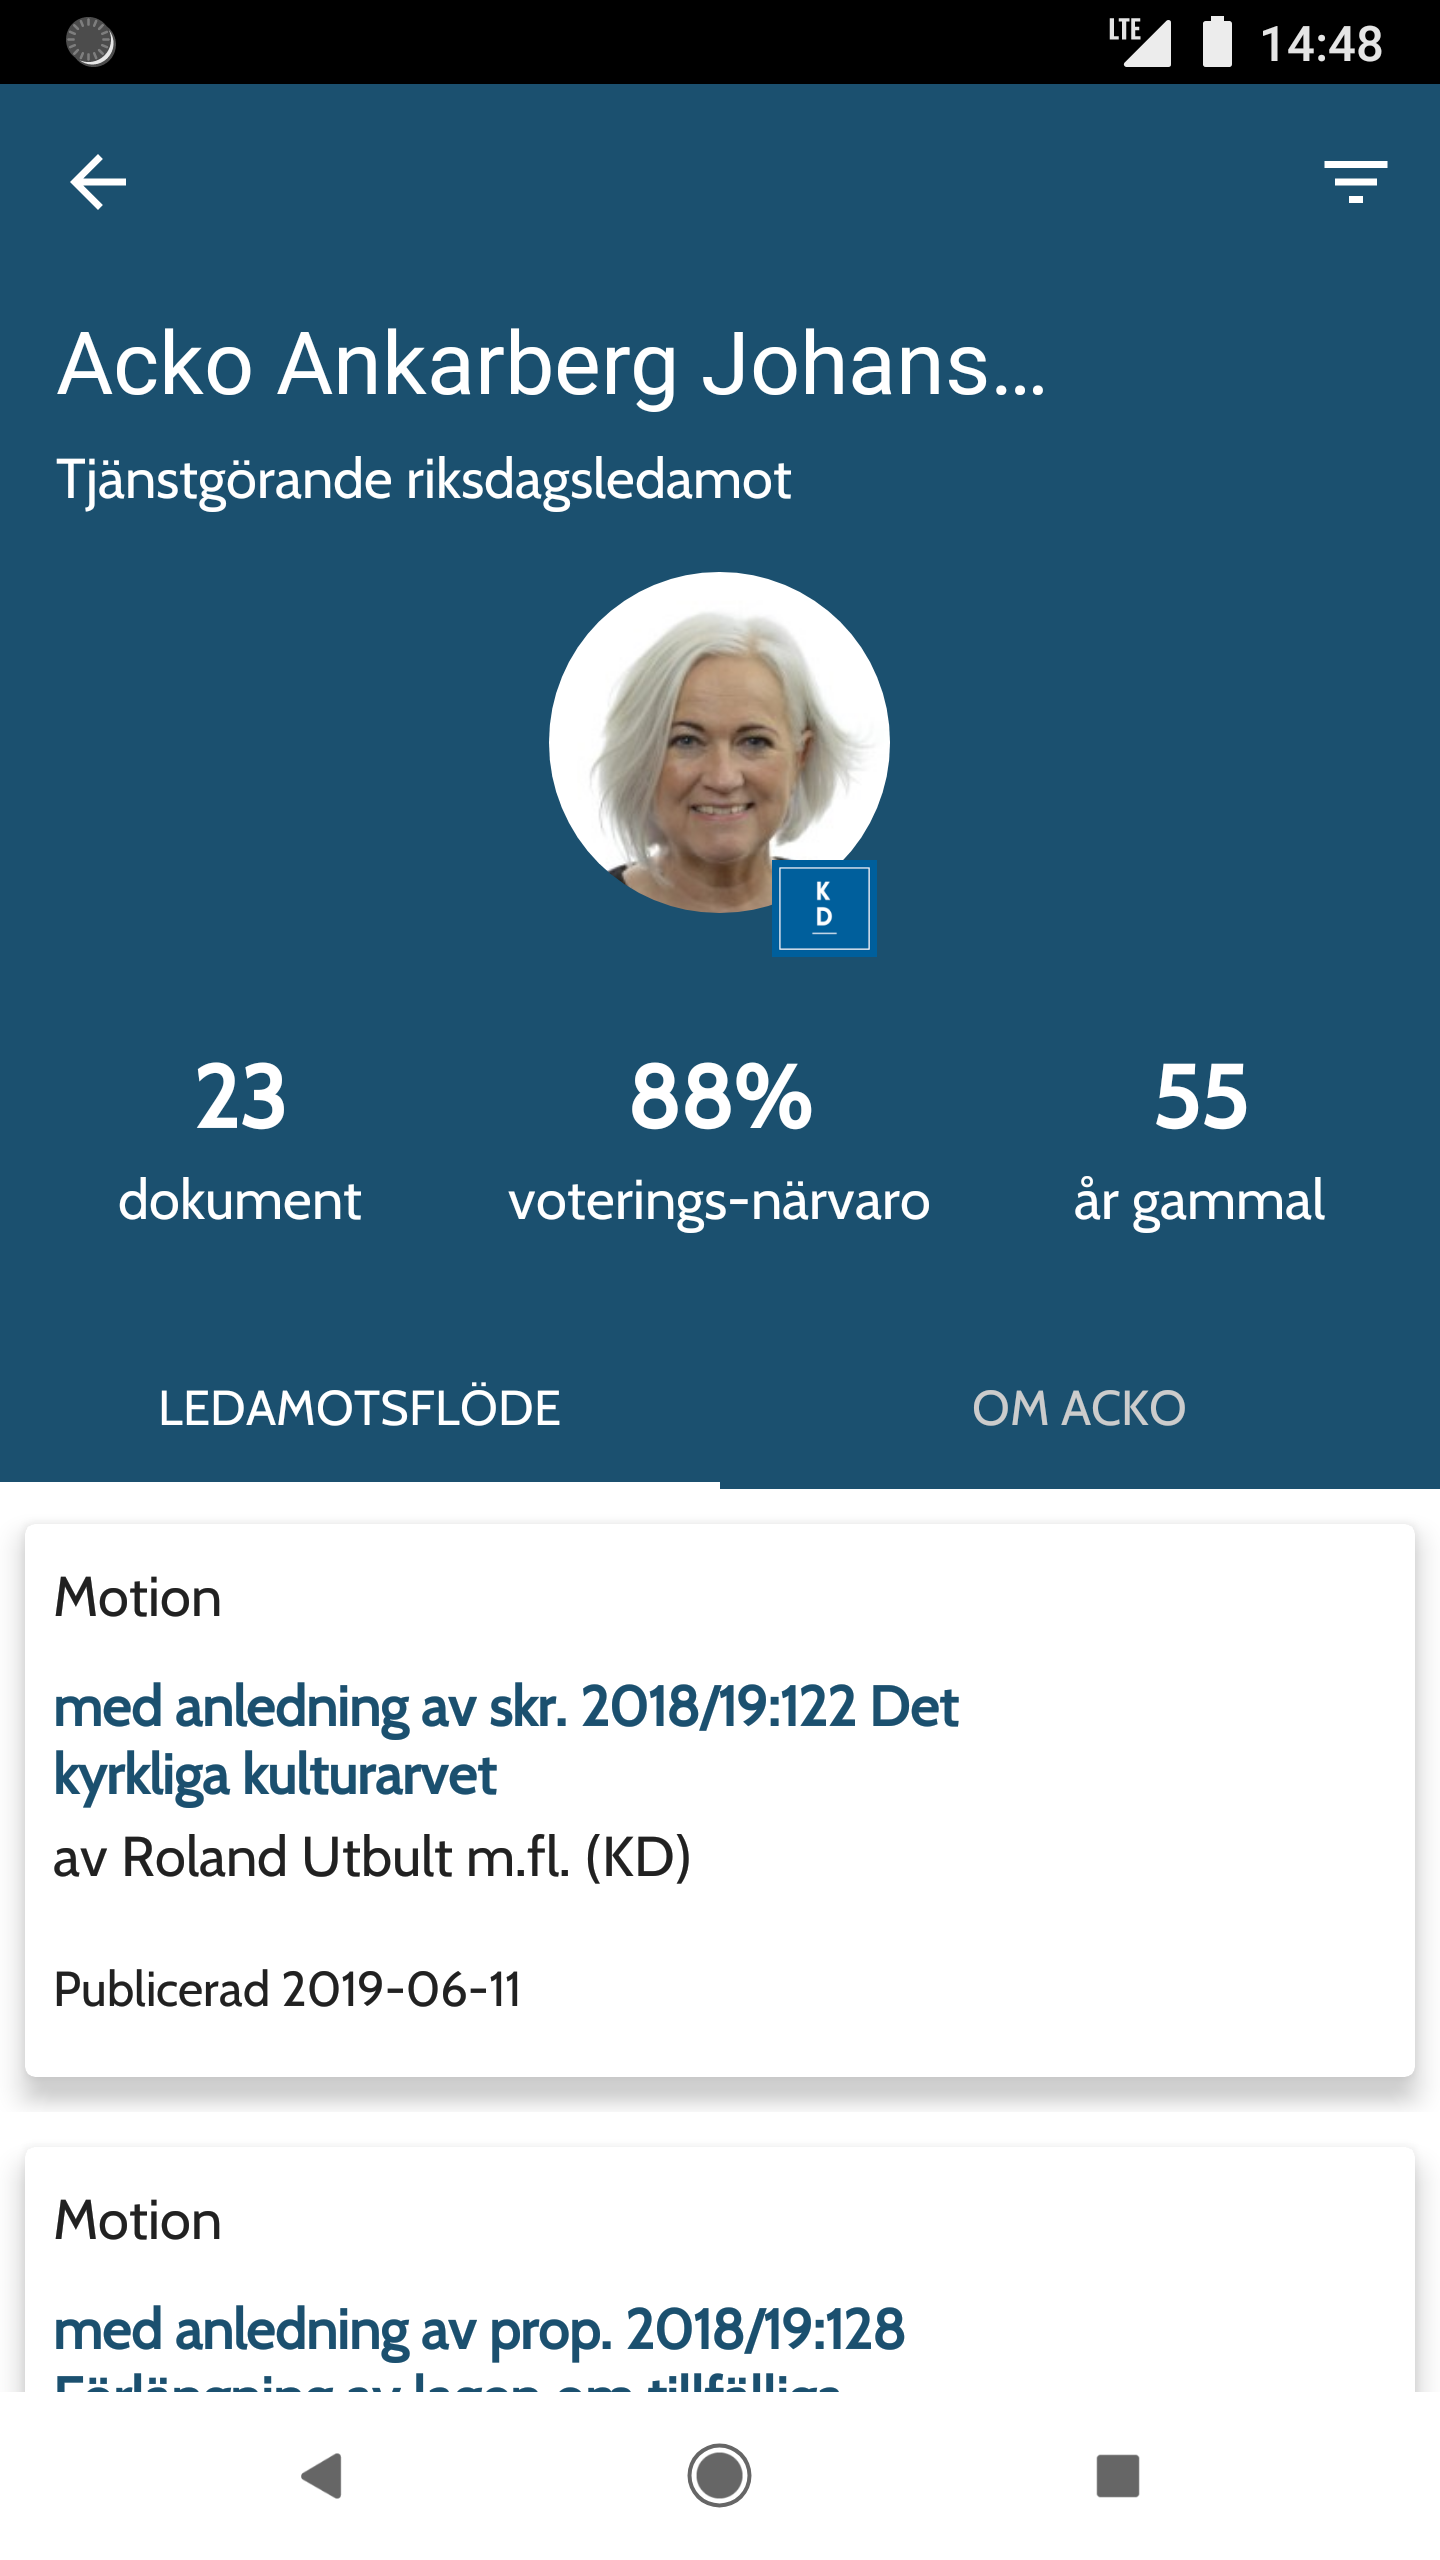
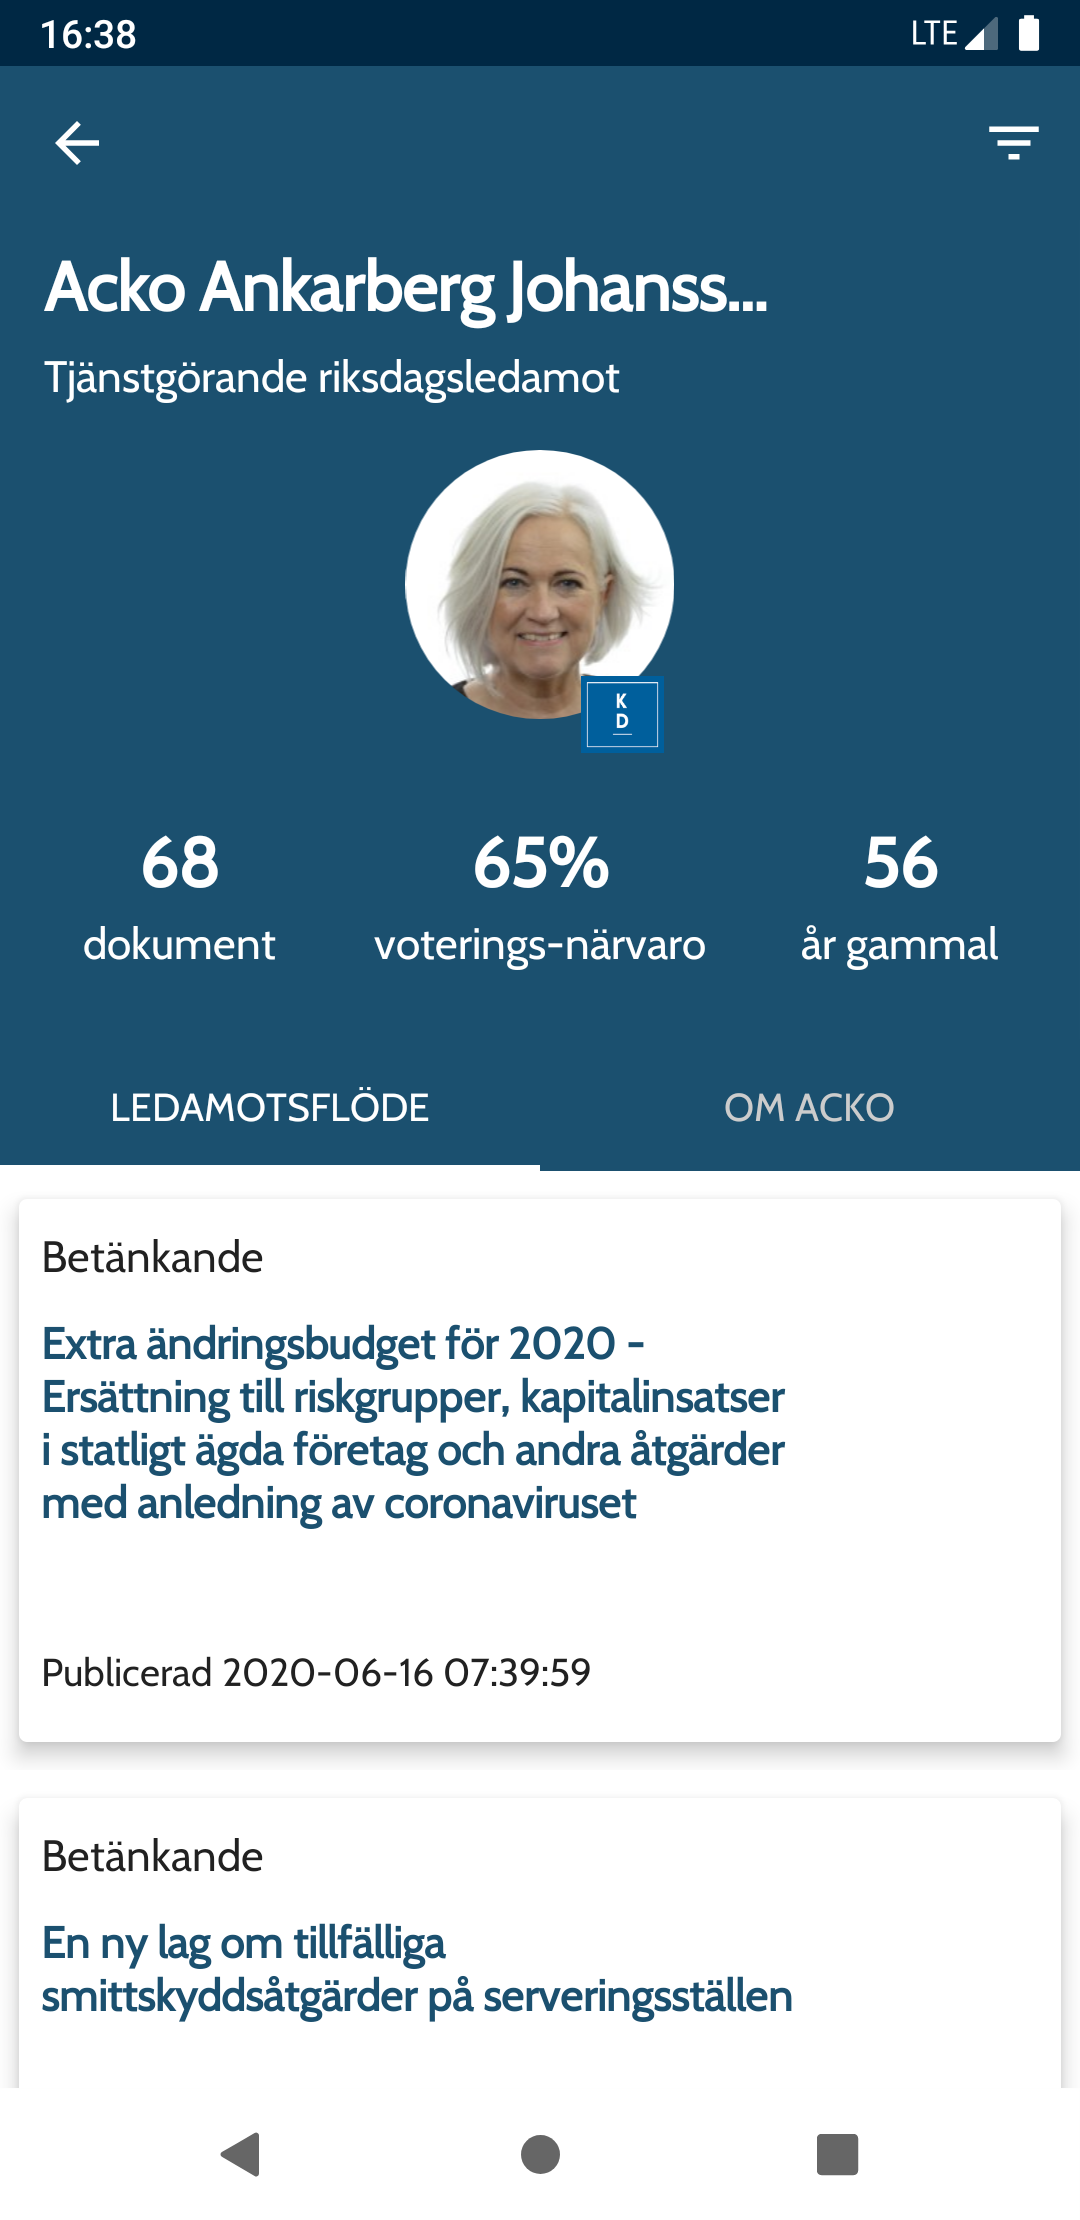
Update automated scripts for screenshots and update app screenshots.

Changed region(s): [[0.0, 0.0932, 1.0, 0.9946], [0.0, 0.0, 1.0, 0.0932], [0.7333, 0.9635, 0.7944, 0.9946]]

diff --git a/fastlane/metadata/android/screenshots.html b/fastlane/metadata/android/screenshots.html
@@ -75,38 +75,50 @@
       </tr>
       <tr>
         <td>
-          <a href="./sv-SE/images/phoneScreenshots/debate_1568119691990.png" target="_blank" class="screenshotLink">
-            <img class="screenshot" src="./sv-SE/images/phoneScreenshots/debate_1568119691990.png" style="width: 100%;" alt="sv-SE phoneScreenshots" data-counter="1">
+          <a href="./sv-SE/images/phoneScreenshots/debate.png" target="_blank"
+             class="screenshotLink">
+            <img class="screenshot" src="./sv-SE/images/phoneScreenshots/debate.png"
+                 style="width: 100%;" alt="sv-SE phoneScreenshots" data-counter="1">
           </a>
         </td>
         <td>
-          <a href="./sv-SE/images/phoneScreenshots/decisions_1568119712271.png" target="_blank" class="screenshotLink">
-            <img class="screenshot" src="./sv-SE/images/phoneScreenshots/decisions_1568119712271.png" style="width: 100%;" alt="sv-SE phoneScreenshots" data-counter="2">
+          <a href="./sv-SE/images/phoneScreenshots/decisions.png" target="_blank"
+             class="screenshotLink">
+            <img class="screenshot" src="./sv-SE/images/phoneScreenshots/decisions.png"
+                 style="width: 100%;" alt="sv-SE phoneScreenshots" data-counter="2">
           </a>
         </td>
         <td>
-          <a href="./sv-SE/images/phoneScreenshots/news_1568119680215.png" target="_blank" class="screenshotLink">
-            <img class="screenshot" src="./sv-SE/images/phoneScreenshots/news_1568119680215.png" style="width: 100%;" alt="sv-SE phoneScreenshots" data-counter="3">
+          <a href="./sv-SE/images/phoneScreenshots/news.png" target="_blank" class="screenshotLink">
+            <img class="screenshot" src="./sv-SE/images/phoneScreenshots/news.png"
+                 style="width: 100%;" alt="sv-SE phoneScreenshots" data-counter="3">
           </a>
         </td>
         <td>
-          <a href="./sv-SE/images/phoneScreenshots/party_1568119707080.png" target="_blank" class="screenshotLink">
-            <img class="screenshot" src="./sv-SE/images/phoneScreenshots/party_1568119707080.png" style="width: 100%;" alt="sv-SE phoneScreenshots" data-counter="4">
+          <a href="./sv-SE/images/phoneScreenshots/party.png" target="_blank"
+             class="screenshotLink">
+            <img class="screenshot" src="./sv-SE/images/phoneScreenshots/party.png"
+                 style="width: 100%;" alt="sv-SE phoneScreenshots" data-counter="4">
           </a>
         </td>
         <td>
-          <a href="./sv-SE/images/phoneScreenshots/representative_1568119702330.png" target="_blank" class="screenshotLink">
-            <img class="screenshot" src="./sv-SE/images/phoneScreenshots/representative_1568119702330.png" style="width: 100%;" alt="sv-SE phoneScreenshots" data-counter="5">
+          <a href="./sv-SE/images/phoneScreenshots/representative.png" target="_blank"
+             class="screenshotLink">
+            <img class="screenshot" src="./sv-SE/images/phoneScreenshots/representative.png"
+                 style="width: 100%;" alt="sv-SE phoneScreenshots" data-counter="5">
           </a>
         </td>
         <td>
-          <a href="./sv-SE/images/phoneScreenshots/representatives_1568119696281.png" target="_blank" class="screenshotLink">
-            <img class="screenshot" src="./sv-SE/images/phoneScreenshots/representatives_1568119696281.png" style="width: 100%;" alt="sv-SE phoneScreenshots" data-counter="6">
+          <a href="./sv-SE/images/phoneScreenshots/representatives.png" target="_blank"
+             class="screenshotLink">
+            <img class="screenshot" src="./sv-SE/images/phoneScreenshots/representatives.png"
+                 style="width: 100%;" alt="sv-SE phoneScreenshots" data-counter="6">
           </a>
         </td>
         <td>
-          <a href="./sv-SE/images/phoneScreenshots/vote_1568119718530.png" target="_blank" class="screenshotLink">
-            <img class="screenshot" src="./sv-SE/images/phoneScreenshots/vote_1568119718530.png" style="width: 100%;" alt="sv-SE phoneScreenshots" data-counter="7">
+          <a href="./sv-SE/images/phoneScreenshots/vote.png" target="_blank" class="screenshotLink">
+            <img class="screenshot" src="./sv-SE/images/phoneScreenshots/vote.png"
+                 style="width: 100%;" alt="sv-SE phoneScreenshots" data-counter="7">
           </a>
         </td>
       </tr>

diff --git a/app/src/androidTest/java/oscar/riksdagskollen/screenshots/ScreenshotCapturer.java b/app/src/androidTest/java/oscar/riksdagskollen/screenshots/ScreenshotCapturer.java
@@ -6,7 +6,9 @@ import android.Manifest;
 import androidx.test.rule.ActivityTestRule;
 import androidx.test.rule.GrantPermissionRule;
 
+import org.junit.AfterClass;
 import org.junit.Before;
+import org.junit.BeforeClass;
 import org.junit.ClassRule;
 import org.junit.Rule;
 import org.junit.Test;
@@ -17,6 +19,7 @@ import oscar.riksdagskollen.Activity.MainActivity;
 import oscar.riksdagskollen.R;
 import tools.fastlane.screengrab.Screengrab;
 import tools.fastlane.screengrab.UiAutomatorScreenshotStrategy;
+import tools.fastlane.screengrab.cleanstatusbar.CleanStatusBar;
 import tools.fastlane.screengrab.locale.LocaleTestRule;
 import tools.fastlane.screengrab.locale.LocaleUtil;
 
@@ -30,10 +33,9 @@ import static androidx.test.espresso.matcher.ViewMatchers.hasDescendant;
 import static androidx.test.espresso.matcher.ViewMatchers.withId;
 import static androidx.test.espresso.matcher.ViewMatchers.withText;
 import static oscar.riksdagskollen.Utils.atPosition;
-import static oscar.riksdagskollen.Utils.navigateTo;
+import static oscar.riksdagskollen.Utils.navigateToAndReapplyTheme;
 import static oscar.riksdagskollen.Utils.pressDeviceBackButton;
 import static oscar.riksdagskollen.Utils.pressItemInRecyclerView;
-import static oscar.riksdagskollen.Utils.pressItemsInRecyclerView;
 import static oscar.riksdagskollen.Utils.pressItemsInRecyclerViewWithDelay;
 import static oscar.riksdagskollen.Utils.scrollView;
 import static oscar.riksdagskollen.Utils.waitALittle;
@@ -59,17 +61,52 @@ public class ScreenshotCapturer {
         LocaleUtil.changeDeviceLocaleTo(LocaleUtil.getTestLocale());
     }
 
+    @BeforeClass
+    public static void beforeAll() {
+        CleanStatusBar.enableWithDefaults();
+    }
+
     @Test
     public void testTakeScreenshot() {
         Screengrab.setDefaultScreenshotStrategy(new UiAutomatorScreenshotStrategy());
-        navigateTo(R.id.about_nav);
-        navigateTo(R.id.news_nav);
+        // Fix colors being off for some reason by reapplying theme
+        navigateToAndReapplyTheme(R.id.news_nav, activityRule);
         waitALittle();
         // Getting news screenshot
         Screengrab.screenshot("news");
 
+        // Getting representative list screenshot
+        navigateToAndReapplyTheme(R.id.rep_nav, activityRule);
+        Screengrab.screenshot("representatives");
+
+        // Getting representative screenshot
+        pressItemInRecyclerView(R.id.recycler_view, 1);
+        waitALittle();
+        Screengrab.screenshot("representative");
+        pressDeviceBackButton();
+
+        // Getting party screenshot
+        navigateToAndReapplyTheme(R.id.m_nav, activityRule);
+        onView(withId(R.id.viewpager)).perform(swipeLeft());
+        waitALittle();
+        Screengrab.screenshot("party");
+
+        // Getting decision list screenshot
+        navigateToAndReapplyTheme(R.id.dec_nav, activityRule);
+        pressItemInRecyclerView(R.id.recycler_view, 1);
+        waitALittle();
+        Screengrab.screenshot("decisions");
+
+        // Getting vote details screenshot
+        navigateToAndReapplyTheme(R.id.votes_nav, activityRule);
+        pressItemsInRecyclerViewWithDelay(R.id.recycler_view, 1);
+        waitALittle();
+        Screengrab.screenshot("vote");
+
+        pressDeviceBackButton();
+
         // Getting a debate screenshot
-        navigateTo(R.id.debate_nav);
+        navigateToAndReapplyTheme(R.id.debate_nav, activityRule);
 
         // Check after a "Aktuell Debatt" item for a nice screenshot
         scrollView(R.id.recycler_view);
@@ -78,7 +115,7 @@ public class ScreenshotCapturer {
                     .perform(actionOnItemAtPosition(i, scrollTo()));
             try {
                 onView(withId(R.id.recycler_view))
-                        .check(matches(atPosition(i, hasDescendant(withText("Aktuell Debatt")))));
+                        .check(matches(atPosition(i, (hasDescendant(withText("Betänkande"))))));
                 onView(withId(R.id.recycler_view))
                         .perform(actionOnItemAtPosition(i, click()));
                 break;
@@ -87,38 +124,16 @@ public class ScreenshotCapturer {
             }
         }
         waitALittle();
+        onView(withId(R.id.show_audio_player_header)).perform(click());
+        waitALittle();
         Screengrab.screenshot("debate");
         pressDeviceBackButton();
 
-        // Getting representative list screenshot
-        navigateTo(R.id.rep_nav);
-        waitALittle();
-        Screengrab.screenshot("representatives");
+    }
 
-        // Getting representative screenshot
-        pressItemsInRecyclerViewWithDelay(R.id.recycler_view, 1);
-        waitALittle();
-        Screengrab.screenshot("representative");
-        pressDeviceBackButton();
-
-        // Getting party screenshot
-        navigateTo(R.id.m_nav);
-        onView(withId(R.id.viewpager)).perform(swipeLeft());
-        waitALittle();
-        Screengrab.screenshot("party");
-
-        // Getting decision list screenshot
-        navigateTo(R.id.dec_nav);
-        pressItemInRecyclerView(R.id.recycler_view, 1, null);
-        waitALittle();
-        Screengrab.screenshot("decisions");
-
-        // Getting vote details screenshot
-        navigateTo(R.id.votes_nav);
-        pressItemsInRecyclerViewWithDelay(R.id.recycler_view, 1);
-        waitALittle();
-        Screengrab.screenshot("vote");
-
+    @AfterClass
+    public static void afterAll() {
+        CleanStatusBar.disable();
     }
 
 

diff --git a/app/src/androidTest/java/oscar/riksdagskollen/Utils.java b/app/src/androidTest/java/oscar/riksdagskollen/Utils.java
@@ -4,12 +4,12 @@ import android.view.Gravity;
 import android.view.View;
 
 import androidx.annotation.NonNull;
-import androidx.annotation.Nullable;
 import androidx.recyclerview.widget.RecyclerView;
 import androidx.test.espresso.contrib.DrawerActions;
 import androidx.test.espresso.contrib.NavigationViewActions;
 import androidx.test.espresso.matcher.BoundedMatcher;
 import androidx.test.platform.app.InstrumentationRegistry;
+import androidx.test.rule.ActivityTestRule;
 import androidx.test.uiautomator.UiDevice;
 
 import org.hamcrest.Description;
@@ -88,14 +88,14 @@ public class Utils {
         }
     }
 
-    public static void pressItemInRecyclerView(int recyclerViewId, int index, @Nullable Boolean other) {
-            onView(withId(recyclerViewId))
-                    .perform(actionOnItemAtPosition(index, click()));
-            try {
-                Thread.sleep(1000);
-            } catch (InterruptedException e) {
-                e.printStackTrace();
-            }
+    public static void pressItemInRecyclerView(int recyclerViewId, int index) {
+        onView(withId(recyclerViewId))
+                .perform(actionOnItemAtPosition(index, click()));
+        try {
+            Thread.sleep(1000);
+        } catch (InterruptedException e) {
+            e.printStackTrace();
+        }
 
     }
 
@@ -124,6 +124,11 @@ public class Utils {
                 .perform(NavigationViewActions.navigateTo(menuId));
     }
 
+    public static void navigateToAndReapplyTheme(int menuId, ActivityTestRule activityTestRule) {
+        navigateTo(menuId);
+        reApplyTheme(activityTestRule);
+    }
+
     public static Matcher<View> atPosition(final int position, @NonNull final Matcher<View> itemMatcher) {
 
         return new BoundedMatcher<View, RecyclerView>(RecyclerView.class) {
@@ -145,6 +150,12 @@ public class Utils {
         };
     }
 
+    public static void reApplyTheme(ActivityTestRule rule) {
+        rule.getActivity().runOnUiThread(() -> {
+            rule.getActivity().getApplication().setTheme(R.style.DefaultTheme);
+            rule.getActivity().recreate();
+        });
+    }
 
     public static void waitALittle() {
         try {

diff --git a/fastlane/README.md b/fastlane/README.md
@@ -12,7 +12,7 @@ Install _fastlane_ using
 ```
 [sudo] gem install fastlane -NV
 ```
-or alternatively using `brew cask install fastlane`
+or alternatively using `brew install fastlane`
 
 # Available Actions
 ## Android
@@ -31,11 +31,6 @@ Submit a new Beta Build to Crashlytics Beta
 fastlane android deploy
 ```
 Deploy a new version to the Google Play
-### android install_demo
-```
-fastlane android install_demo
-```
-Install quick demo application
 ### android generate_screenshots
 ```
 fastlane android generate_screenshots
